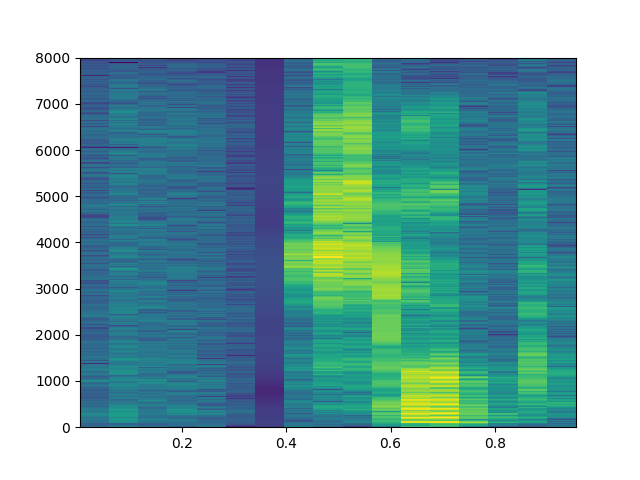
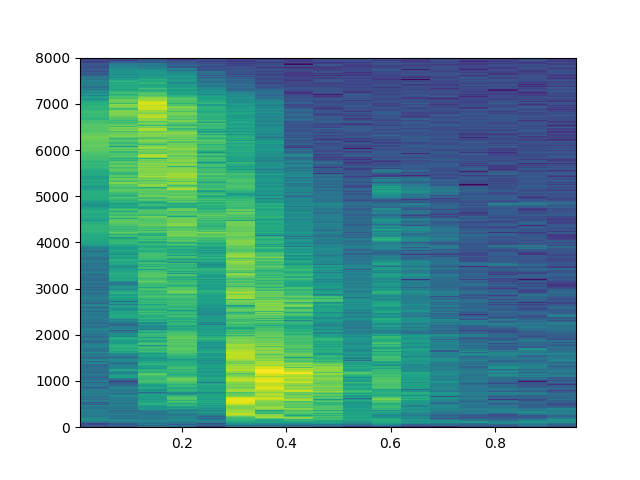
-

diff --git a/algs/speech/test1.md b/algs/speech/test1.md
@@ -33,7 +33,6 @@ plt.savefig('test1_1.png')
 
 
 ```python
-
 all_train_files = []
 for d, r, f in os.walk(train_dir):
     for filename in f:
@@ -46,6 +45,18 @@ for x in all_train_files:
        label = re.findall(".*/(.*?)/.*?.wav",x)[0]
        if label not in labels and x not in noise_files: unknown_files.append(x)
        elif x not in noise_files: train_files.append(x)
+
+noise_chunks = []
+for f in noise_files:
+    wav = io.BytesIO(open(f).read())
+    v = scipy.io.wavfile.read(wav)
+    chunks = int(len(v[1]) / fs) - 1
+    for i in range(chunks):
+    	fr = int(i * fs)
+    	to = int((i+1)*fs)
+    	chunk_byte = v[1][fr:to]
+	noise_chunks.append(chunk_byte)
+    
 ```
 
 ```python
@@ -62,20 +73,17 @@ print unknown_files[:10]
 
 
 ```python
+def adj_volume(vec):
+    vol_multiplier = np.mean(np.abs(vec)) / 500.
+    vnew = vec.astype(float) / vol_multiplier
+    return vnew
 
 def get_minibatch(batch_size, silence_percent=0.10, unknown_percent=0.15):
     res = np.zeros((batch_size, fs))
     y = np.zeros((batch_size,len(labels)+2 ))
     for i in range(batch_size):
         if random.choice(range(int(1/silence_percent))) == 0:	   
-           f = random.choice(noise_files)
-	   wav = io.BytesIO(open(f).read())
-	   v = scipy.io.wavfile.read(wav)
-           chunks = int(len(v[1]) / fs) - 1
-           chosen_chunk = random.choice(range(chunks))
-           fr = int(chosen_chunk * fs)
-           to = int((chosen_chunk+1)*fs)
-           chunk_byte = v[1][fr:to]
+           chunk_byte = random.choice(noise_chunks)
 	   res[i, :] = chunk_byte
 	   y[i, all_labels.index('silence')] = 1.0 # silence
         elif random.choice(range(int(1/unknown_percent))) == 0:	   
@@ -102,23 +110,23 @@ print y
 ```text
 [[ 0.  0.  0.  0.  0.  0.  1.  0.  0.  0.  0.  0.]
  [ 1.  0.  0.  0.  0.  0.  0.  0.  0.  0.  0.  0.]
- [ 0.  0.  1.  0.  0.  0.  0.  0.  0.  0.  0.  0.]
- [ 0.  0.  0.  1.  0.  0.  0.  0.  0.  0.  0.  0.]
+ [ 0.  0.  0.  0.  0.  0.  0.  0.  0.  1.  0.  0.]
+ [ 0.  0.  0.  0.  0.  0.  0.  0.  0.  0.  1.  0.]
+ [ 0.  0.  0.  0.  1.  0.  0.  0.  0.  0.  0.  0.]
  [ 0.  0.  0.  0.  0.  0.  0.  0.  0.  0.  1.  0.]
  [ 0.  0.  0.  0.  0.  0.  0.  1.  0.  0.  0.  0.]
+ [ 0.  0.  0.  0.  0.  0.  1.  0.  0.  0.  0.  0.]
+ [ 0.  0.  0.  0.  0.  0.  1.  0.  0.  0.  0.  0.]
+ [ 0.  0.  0.  0.  0.  0.  0.  0.  0.  0.  1.  0.]
+ [ 0.  1.  0.  0.  0.  0.  0.  0.  0.  0.  0.  0.]
  [ 0.  0.  0.  0.  0.  0.  0.  0.  0.  1.  0.  0.]
- [ 0.  1.  0.  0.  0.  0.  0.  0.  0.  0.  0.  0.]
- [ 0.  0.  0.  0.  0.  0.  0.  1.  0.  0.  0.  0.]
- [ 0.  1.  0.  0.  0.  0.  0.  0.  0.  0.  0.  0.]
+ [ 0.  0.  0.  0.  0.  0.  1.  0.  0.  0.  0.  0.]
  [ 0.  0.  0.  0.  0.  0.  1.  0.  0.  0.  0.  0.]
  [ 0.  0.  0.  0.  0.  1.  0.  0.  0.  0.  0.  0.]
- [ 0.  0.  0.  0.  0.  0.  1.  0.  0.  0.  0.  0.]
- [ 0.  0.  0.  0.  0.  0.  0.  0.  1.  0.  0.  0.]
  [ 0.  0.  0.  1.  0.  0.  0.  0.  0.  0.  0.  0.]
- [ 0.  0.  0.  0.  0.  0.  1.  0.  0.  0.  0.  0.]
- [ 0.  0.  0.  0.  0.  0.  0.  0.  0.  0.  1.  0.]
+ [ 0.  0.  1.  0.  0.  0.  0.  0.  0.  0.  0.  0.]
  [ 0.  0.  0.  0.  0.  0.  0.  0.  0.  0.  0.  1.]
- [ 0.  0.  0.  0.  0.  0.  0.  0.  0.  1.  0.  0.]
+ [ 0.  0.  0.  0.  0.  0.  0.  1.  0.  0.  0.  0.]
  [ 0.  0.  0.  1.  0.  0.  0.  0.  0.  0.  0.  0.]]
 ```
 
@@ -149,7 +157,7 @@ data = tf.placeholder(tf.float32, [None, 16000])
 
 print data
 
-stfts = tf.contrib.signal.stft(data, frame_length=300, frame_step=100, fft_length=512)
+stfts = tf.contrib.signal.stft(data, frame_length=256, frame_step=64, fft_length=256)
 
 spec = tf.abs(stfts)
 
@@ -161,188 +169,10 @@ print res.shape
 ```
 
 ```text
-Tensor("Placeholder_24:0", shape=(?, 16000), dtype=float32)
-(1, 158, 257)
+Tensor("Placeholder:0", shape=(?, 16000), dtype=float32)
+(1, 247, 129)
 ```
 
-```python
-print help(plt.specgram)
-```
-
-```text
-Help on function specgram in module matplotlib.pyplot:
-
-specgram(x, NFFT=None, Fs=None, Fc=None, detrend=None, window=None, noverlap=None, cmap=None, xextent=None, pad_to=None, sides=None, scale_by_freq=None, mode=None, scale=None, vmin=None, vmax=None, hold=None, data=None, **kwargs)
-    Plot a spectrogram.
-    
-    Call signature::
-    
-      specgram(x, NFFT=256, Fs=2, Fc=0, detrend=mlab.detrend_none,
-               window=mlab.window_hanning, noverlap=128,
-               cmap=None, xextent=None, pad_to=None, sides='default',
-               scale_by_freq=None, mode='default', scale='default',
-               **kwargs)
-    
-    Compute and plot a spectrogram of data in *x*.  Data are split into
-    *NFFT* length segments and the spectrum of each section is
-    computed.  The windowing function *window* is applied to each
-    segment, and the amount of overlap of each segment is
-    specified with *noverlap*. The spectrogram is plotted as a colormap
-    (using imshow).
-    
-    Parameters
-    ----------
-    x : 1-D array or sequence
-        Array or sequence containing the data.
-    
-    Fs : scalar
-        The sampling frequency (samples per time unit).  It is used
-        to calculate the Fourier frequencies, freqs, in cycles per time
-        unit. The default value is 2.
-    
-    window : callable or ndarray
-        A function or a vector of length *NFFT*. To create window
-        vectors see :func:`window_hanning`, :func:`window_none`,
-        :func:`numpy.blackman`, :func:`numpy.hamming`,
-        :func:`numpy.bartlett`, :func:`scipy.signal`,
-        :func:`scipy.signal.get_window`, etc. The default is
-        :func:`window_hanning`.  If a function is passed as the
-        argument, it must take a data segment as an argument and
-        return the windowed version of the segment.
-    
-    sides : [ 'default' | 'onesided' | 'twosided' ]
-        Specifies which sides of the spectrum to return.  Default gives the
-        default behavior, which returns one-sided for real data and both
-        for complex data.  'onesided' forces the return of a one-sided
-        spectrum, while 'twosided' forces two-sided.
-    
-    pad_to : integer
-        The number of points to which the data segment is padded when
-        performing the FFT.  This can be different from *NFFT*, which
-        specifies the number of data points used.  While not increasing
-        the actual resolution of the spectrum (the minimum distance between
-        resolvable peaks), this can give more points in the plot,
-        allowing for more detail. This corresponds to the *n* parameter
-        in the call to fft(). The default is None, which sets *pad_to*
-        equal to *NFFT*
-    
-    NFFT : integer
-        The number of data points used in each block for the FFT.
-        A power 2 is most efficient.  The default value is 256.
-        This should *NOT* be used to get zero padding, or the scaling of the
-        result will be incorrect. Use *pad_to* for this instead.
-    
-    detrend : {'default', 'constant', 'mean', 'linear', 'none'} or callable
-        The function applied to each segment before fft-ing,
-        designed to remove the mean or linear trend.  Unlike in
-        MATLAB, where the *detrend* parameter is a vector, in
-        matplotlib is it a function.  The :mod:`~matplotlib.pylab`
-        module defines :func:`~matplotlib.pylab.detrend_none`,
-        :func:`~matplotlib.pylab.detrend_mean`, and
-        :func:`~matplotlib.pylab.detrend_linear`, but you can use
-        a custom function as well.  You can also use a string to choose
-        one of the functions.  'default', 'constant', and 'mean' call
-        :func:`~matplotlib.pylab.detrend_mean`.  'linear' calls
-        :func:`~matplotlib.pylab.detrend_linear`.  'none' calls
-        :func:`~matplotlib.pylab.detrend_none`.
-    
-    scale_by_freq : boolean, optional
-        Specifies whether the resulting density values should be scaled
-        by the scaling frequency, which gives density in units of Hz^-1.
-        This allows for integration over the returned frequency values.
-        The default is True for MATLAB compatibility.
-    
-    mode : [ 'default' | 'psd' | 'magnitude' | 'angle' | 'phase' ]
-        What sort of spectrum to use.  Default is 'psd', which takes
-        the power spectral density.  'complex' returns the complex-valued
-        frequency spectrum.  'magnitude' returns the magnitude spectrum.
-        'angle' returns the phase spectrum without unwrapping.  'phase'
-        returns the phase spectrum with unwrapping.
-    
-    noverlap : integer
-        The number of points of overlap between blocks.  The
-        default value is 128.
-    
-    scale : [ 'default' | 'linear' | 'dB' ]
-        The scaling of the values in the *spec*.  'linear' is no scaling.
-        'dB' returns the values in dB scale.  When *mode* is 'psd',
-        this is dB power (10 * log10).  Otherwise this is dB amplitude
-        (20 * log10). 'default' is 'dB' if *mode* is 'psd' or
-        'magnitude' and 'linear' otherwise.  This must be 'linear'
-        if *mode* is 'angle' or 'phase'.
-    
-    Fc : integer
-        The center frequency of *x* (defaults to 0), which offsets
-        the x extents of the plot to reflect the frequency range used
-        when a signal is acquired and then filtered and downsampled to
-        baseband.
-    
-    cmap :
-        A :class:`matplotlib.colors.Colormap` instance; if *None*, use
-        default determined by rc
-    
-    xextent : [None | (xmin, xmax)]
-        The image extent along the x-axis. The default sets *xmin* to the
-        left border of the first bin (*spectrum* column) and *xmax* to the
-        right border of the last bin. Note that for *noverlap>0* the width
-        of the bins is smaller than those of the segments.
-    
-    **kwargs :
-        Additional kwargs are passed on to imshow which makes the
-        specgram image
-    
-    Notes
-    -----
-        *detrend* and *scale_by_freq* only apply when *mode* is set to
-        'psd'
-    
-    Returns
-    -------
-    spectrum : 2-D array
-        Columns are the periodograms of successive segments.
-    
-    freqs : 1-D array
-        The frequencies corresponding to the rows in *spectrum*.
-    
-    t : 1-D array
-        The times corresponding to midpoints of segments (i.e., the columns
-        in *spectrum*).
-    
-    im : instance of class :class:`~matplotlib.image.AxesImage`
-        The image created by imshow containing the spectrogram
-    
-    Examples
-    --------
-    .. plot:: mpl_examples/pylab_examples/specgram_demo.py
-    
-    See Also
-    --------
-    :func:`psd`
-        :func:`psd` differs in the default overlap; in returning the mean
-        of the segment periodograms; in not returning times; and in
-        generating a line plot instead of colormap.
-    
-    :func:`magnitude_spectrum`
-        A single spectrum, similar to having a single segment when *mode*
-        is 'magnitude'. Plots a line instead of a colormap.
-    
-    :func:`angle_spectrum`
-        A single spectrum, similar to having a single segment when *mode*
-        is 'angle'. Plots a line instead of a colormap.
-    
-    :func:`phase_spectrum`
-        A single spectrum, similar to having a single segment when *mode*
-        is 'phase'. Plots a line instead of a colormap.
-    
-    .. note::
-        In addition to the above described arguments, this function can take a
-        **data** keyword argument. If such a **data** argument is given, the
-        following arguments are replaced by **data[<arg>]**:
-    
-        * All arguments with the following names: 'x'.
-
-None
-```
 
 
 
